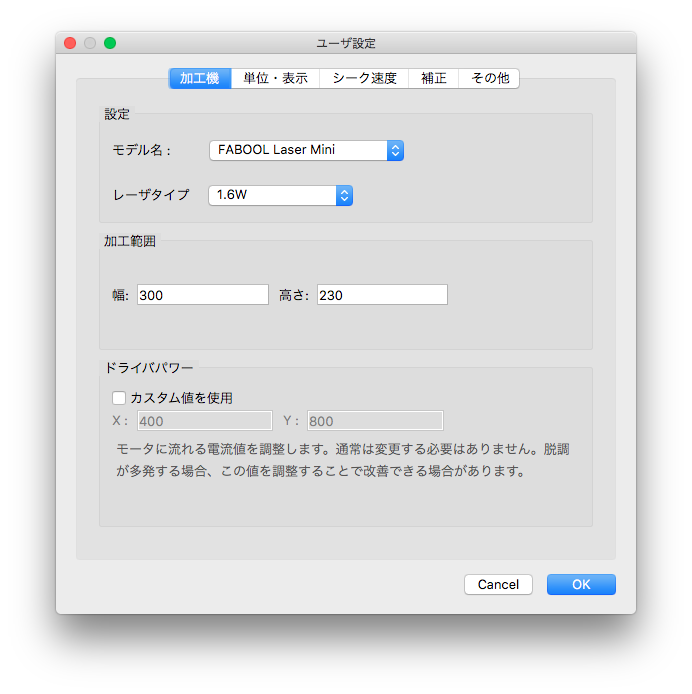
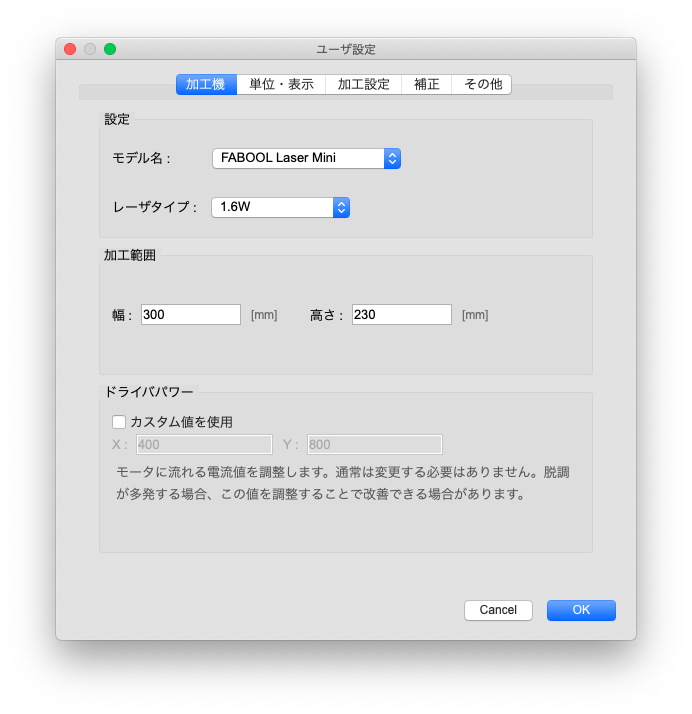
Update for version 1.2.0

diff --git a/manual/releasenote.md b/manual/releasenote.md
@@ -9,7 +9,9 @@
 <th align="left">インストーラ</th>
 </tr>
 </thead>
-<tbody><tr>
+<tbody>
+
+<tr>
 <td align="left">2019.4.17</td>
 <td align="left">v1.0.0</td>
 <td align="left">正式版リリース</td>
@@ -18,6 +20,7 @@
 /
 <a href="http://download.smartdiys.com/smartdiyscreator/offline_installer/v1.0.0/SmartDIYsCreator_offline_installer_win-v1.0.0.exe">win</td>
 </tr>
+
 <tr>
 <td align="left">2019.4.25</td>
 <td align="left">v1.0.1</td>
@@ -27,6 +30,7 @@
 /
 <a href="http://download.smartdiys.com/smartdiyscreator/offline_installer/v1.0.1/SmartDIYsCreator_offline_installer_win-v1.0.1.exe">win</td>
 </tr>
+
 <tr>
 <td align="left">2019.4.26</td>
 <td align="left">v1.0.2</td>
@@ -36,6 +40,7 @@
 /
 <a href="http://download.smartdiys.com/smartdiyscreator/offline_installer/v1.0.2/SmartDIYsCreator_offline_installer_win-v1.0.2.exe">win</td>
 </tr>
+
 <tr>
 <td align="left">2019.5.13</td>
 <td align="left">v1.0.3</td>
@@ -45,6 +50,7 @@
 /
 <a href="http://download.smartdiys.com/smartdiyscreator/offline_installer/v1.0.3/SmartDIYsCreator_offline_installer_win-v1.0.3.exe">win</td>
 </tr>
+
 <tr>
 <td align="left">2019.5.30</td>
 <td align="left">v1.0.4</td>
@@ -54,6 +60,7 @@
 /
 <a href="http://download.smartdiys.com/smartdiyscreator/offline_installer/v1.0.4/SmartDIYsCreator_offline_installer_win-v1.0.4.exe">win</td>
 </tr>
+
 <tr>
 <td align="left">2019.6.4</td>
 <td align="left">v1.0.5</td>
@@ -63,6 +70,7 @@
 /
 <a href="http://download.smartdiys.com/smartdiyscreator/offline_installer/v1.0.5/SmartDIYsCreator_offline_installer_win-v1.0.5.exe">win</td>
 </tr>
+
 <tr>
 <td align="left">2019.6.28</td>
 <td align="left">v1.0.6</td>
@@ -72,6 +80,7 @@
 /
 <a href="http://download.smartdiys.com/smartdiyscreator/offline_installer/v1.0.6/SmartDIYsCreator_offline_installer_win-v1.0.6.exe">win</td>
 </tr>
+
 <tr>
 <td align="left">2019.8.22</td>
 <td align="left">v1.0.7</td>
@@ -81,6 +90,7 @@
 /
 <a href="http://download.smartdiys.com/smartdiyscreator/offline_installer/v1.0.7/SmartDIYsCreator_offline_installer_win-v1.0.7.exe">win</td>
 </tr>
+
 <tr>
 <td align="left">2019.11.9</td>
 <td align="left">v1.1.0</td>
@@ -90,6 +100,7 @@
 /
 <a href="http://download.smartdiys.com/smartdiyscreator/offline_installer/v1.1.0/SmartDIYsCreator_offline_installer_win-v1.1.0.exe">win</td>
 </tr>
+
 <tr>
 <td align="left">2019.11.12</td>
 <td align="left">v1.1.1</td>
@@ -99,6 +110,7 @@
 /
 <a href="http://download.smartdiys.com/smartdiyscreator/offline_installer/v1.1.1/SmartDIYsCreator_offline_installer_win-v1.1.1.exe">win</td>
 </tr>
+
 <tr>
 <td align="left">2019.12.03</td>
 <td align="left">v1.1.2</td>
@@ -108,6 +120,7 @@
 /
 <a href="http://download.smartdiys.com/smartdiyscreator/offline_installer/v1.1.2/SmartDIYsCreator_offline_installer_win-v1.1.2.exe">win</td>
 </tr>
+
 <tr>
 <td align="left">2019.12.17</td>
 <td align="left">v1.1.3</td>
@@ -117,22 +130,35 @@
 /
 <a href="http://download.smartdiys.com/smartdiyscreator/offline_installer/v1.1.3/SmartDIYsCreator_offline_installer_win-v1.1.3.exe">win</td>
 </tr>
+
 <tr>
 <td align="left">2019.12.24</td>
 <td align="left">v1.1.4</td>
-<td align="left">ベクタ塗り加工の曲線精細度向上<br>キャプチャ時のエラー処理追加<br>その他、軽微な不具合の修正</td>
+<td align="left">ベクタ塗り加工の曲線精細度向上<br>キャプチャ時のエラー処理追加<br>その他 軽微な不具合の修正</td>
 <td align="left">
 <a href="http://download.smartdiys.com/smartdiyscreator/offline_installer/v1.1.4/SmartDIYsCreator_offline_installer_mac-v1.1.4.dmg">mac</a>
 /
 <a href="http://download.smartdiys.com/smartdiyscreator/offline_installer/v1.1.4/SmartDIYsCreator_offline_installer_win-v1.1.4.exe">win</td>
 </tr>
+
 <tr>
 <td align="left">2020.2.10</td>
 <td align="left">v1.1.5</td>
-<td align="left">ハッチング処理のパフォーマンスの向上<br>通信プロトコルの改善<br>新規アセット追加<br>UI/UX改善<br>その他、軽微な不具合の修正</td>
+<td align="left">ハッチング処理のパフォーマンスの向上<br>通信プロトコルの改善<br>新規アセット追加<br>UI/UX改善<br>その他 軽微な不具合の修正</td>
 <td align="left">
 <a href="http://download.smartdiys.com/smartdiyscreator/offline_installer/v1.1.5/SmartDIYsCreator_offline_installer_mac-v1.1.5.dmg">mac</a>
 /
 <a href="http://download.smartdiys.com/smartdiyscreator/offline_installer/v1.1.5/SmartDIYsCreator_offline_installer_win-v1.1.5.exe">win</td>
 </tr>
+
+<tr>
+<td align="left">2020.3.12</td>
+<td align="left">v1.2.0</td>
+<td align="left">フレームワークの更新<br>macOS 10.15 Gatekeeperへの対応<br>繰り返し加工に関するユーザ設定項目の追加<br>アセットの追加<br>UI/UX改善<br>その他 軽微な不具合の修正</td>
+<td align="left">
+<a href="http://download.smartdiys.com/smartdiyscreator/offline_installer/v1.2.0/SmartDIYsCreator_offline_installer_mac-v1.2.0.dmg">mac</a>
+/
+<a href="http://download.smartdiys.com/smartdiyscreator/offline_installer/v1.2.0/SmartDIYsCreator_offline_installer_win-v1.2.0.exe">win</td>
+</tr>
+
 </tbody></table>

diff --git a/manual/usersetting.md b/manual/usersetting.md
@@ -37,7 +37,7 @@
 プレビュー時の線幅を指定します。実際のレーザ幅に設定することで仕上がりの印象に近づきます。
 
 ---------------
-## シーク速度
+## 加工設定
 
 <!-- <p align="center">
 <img alt="SmartScreen" src="./images/usersetting/settings_3.png" style="width:70%">
@@ -54,6 +54,10 @@
 ### シーク速度（メンテナンス時）
 位置確認や範囲確認を行う際のレーザヘッドの移動速度を設定できます。
 
+### 繰り返し加工（ベクタ線）
+この設定を有効にした場合、切断加工の際の加工順序に影響があります。  
+「同一アイテム」内に複数の図形（◯ △などのパーツ）があり、回数パラメータが2以上に設定されている場合は下記の順序になります。  
+[有効]: ◯ > ◯ > △ > △   [無効]: ◯ > △ > ◯ > △
 
 ---------------
 ## 補正
